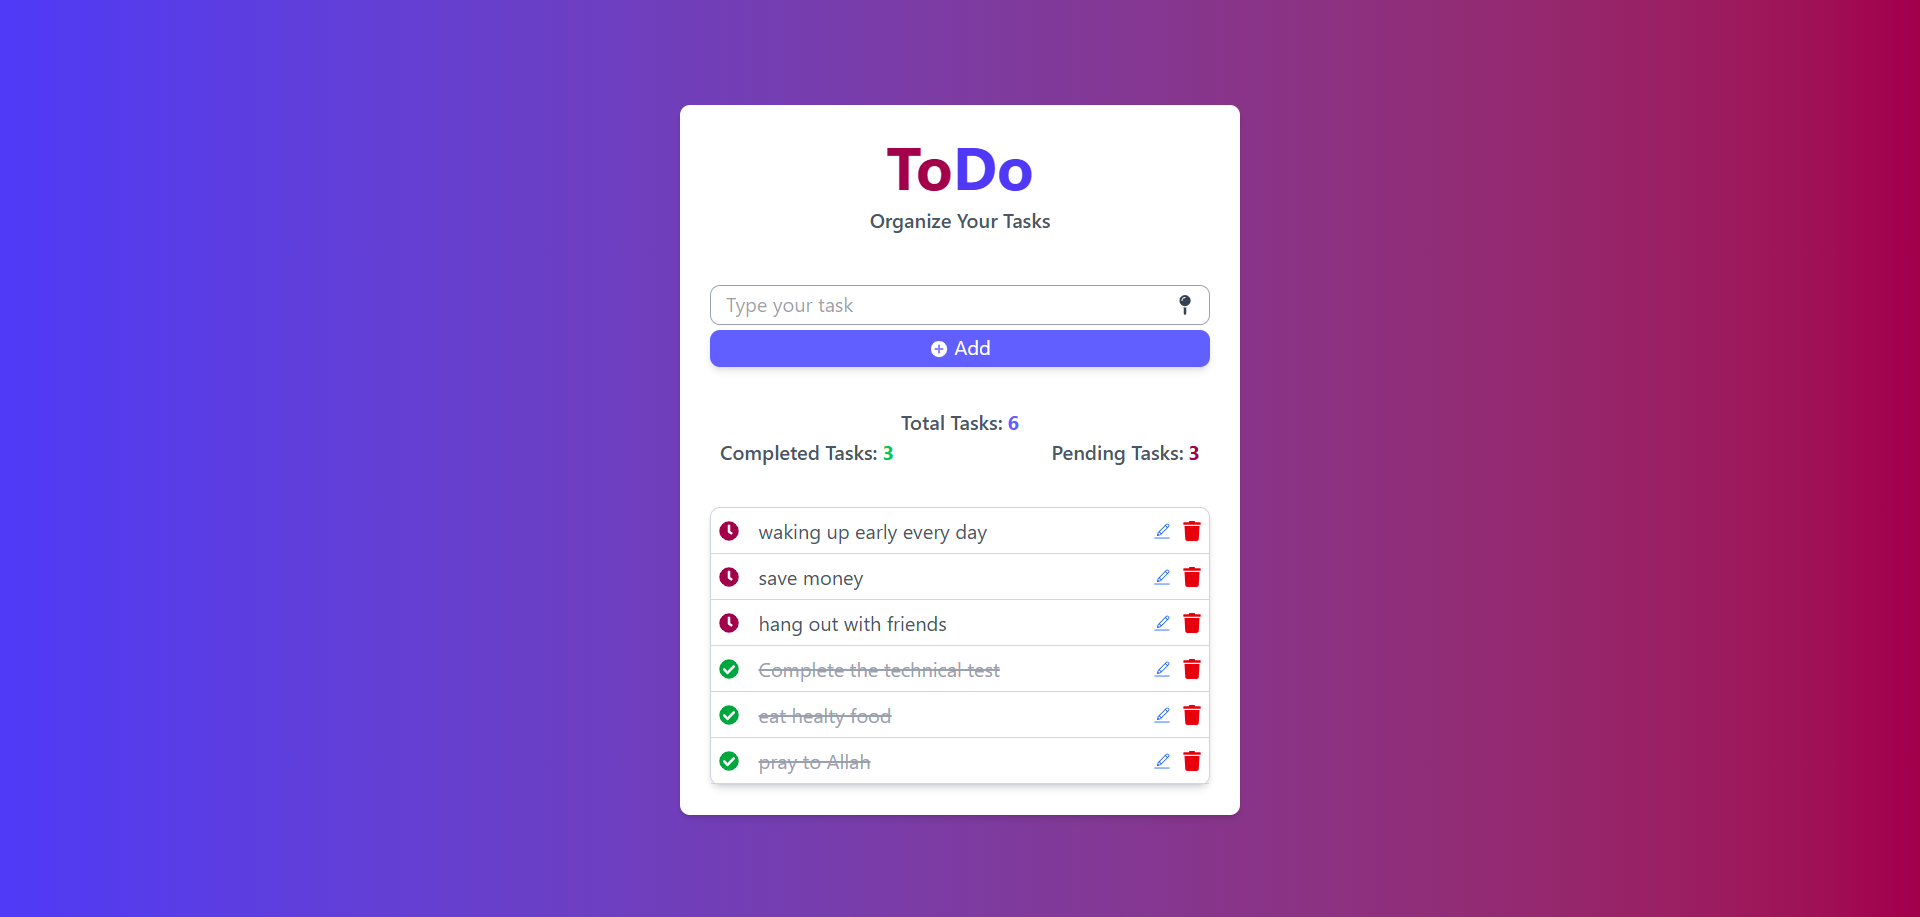
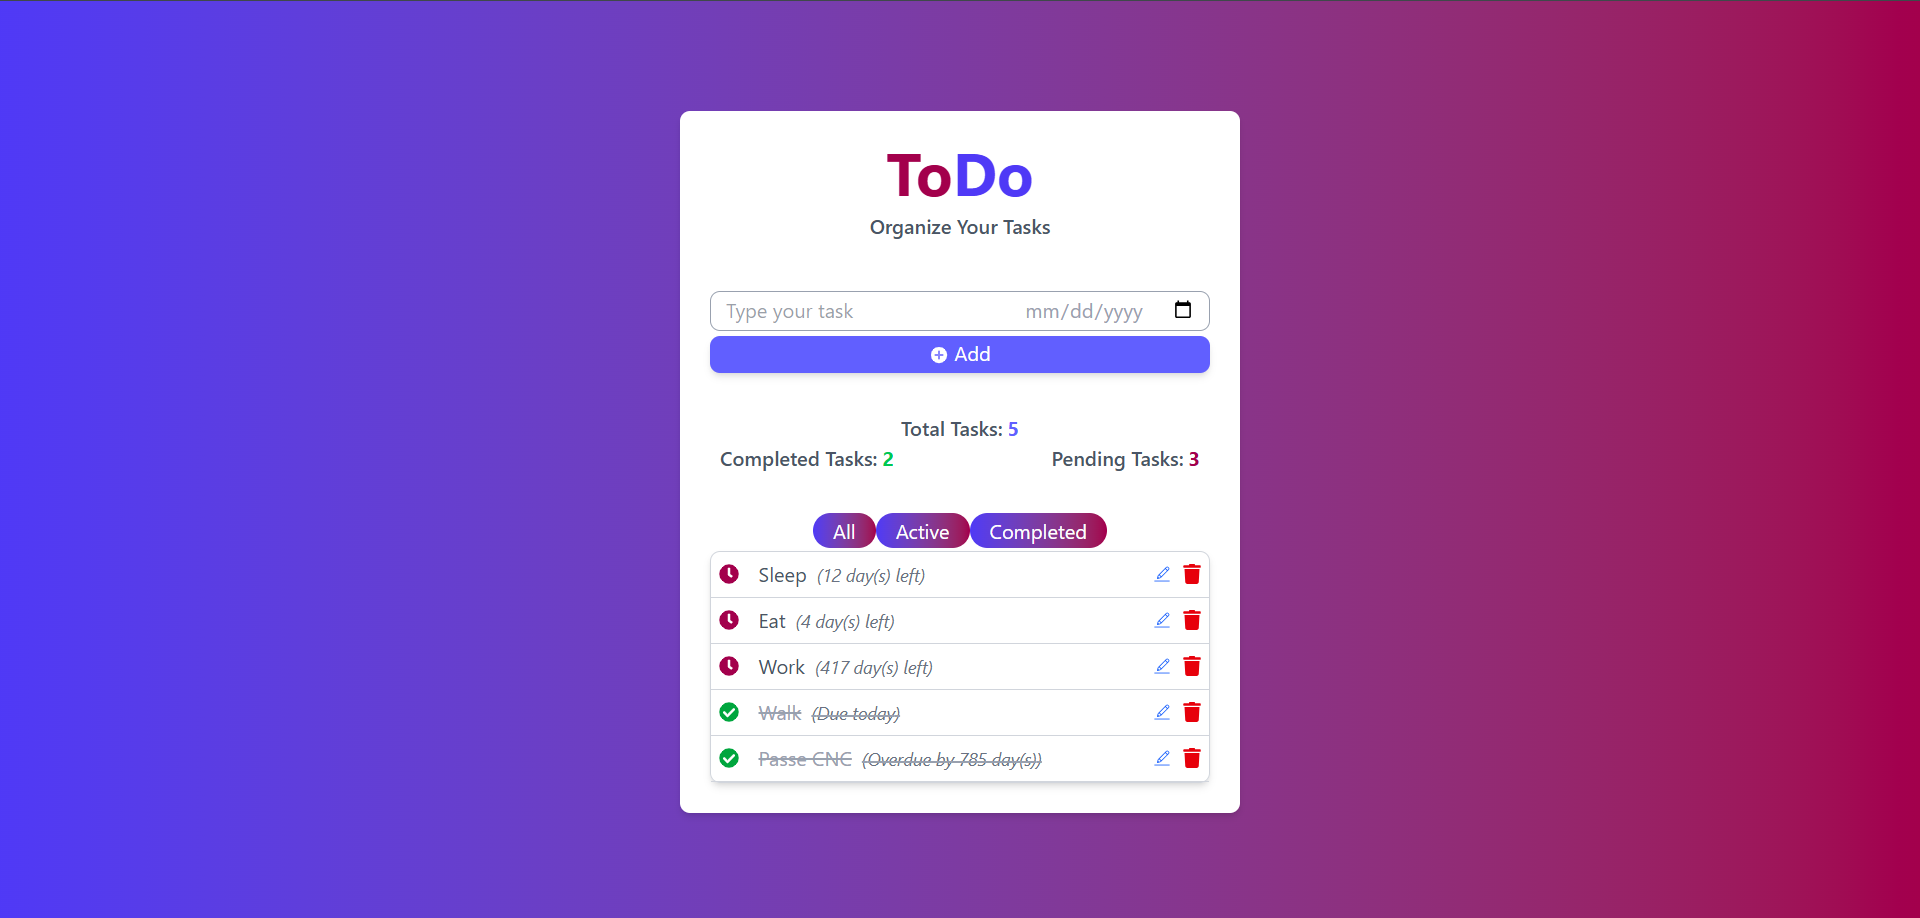
I implemented the due date of each task as well as the remaining dates and to be able to update it in the modale

diff --git a/src/components/Todo.jsx b/src/components/Todo.jsx
@@ -13,6 +13,8 @@ const Todo = () => {
     const [isModalOpen, setIsModalOpen] = useState(false);
     const [editingTaskId, setEditingTaskId] = useState(null);
     const [editedText, setEditedText] = useState('');
+    const [dueDate, setDueDate] = useState('');
+    const [editedDueDate, setEditedDueDate] = useState('');
 
 
     const addTask = (e) => {
@@ -25,13 +27,14 @@ const Todo = () => {
             const newTask = {
                 id: Date.now(),
                 text: inputText,
-                completed: false
+                completed: false,
+                dueDate: dueDate || null
             };
             setTasks([...tasks, newTask]);
             inputRef.current.value = '';
             inputRef.current.focus();
             setErrorMessage('');
-            
+            setDueDate('');
         } else {
             setErrorMessage("Please enter a task.");
             inputRef.current.focus();
@@ -53,16 +56,31 @@ const Todo = () => {
         setTasks(updatedTasks);
     }
 
+    const getRemainingDays = (dueDate) => {
+        if (!dueDate) return null;
+
+        const today = new Date();
+        const due = new Date(dueDate);
+        const diffTime = due - today;
+        const diffDays = Math.ceil(diffTime / (1000 * 60 * 60 * 24));
+
+        if (diffDays > 0) return `${diffDays} day(s) left`;
+        if (diffDays === 0) return 'Due today';
+        return `Overdue by ${Math.abs(diffDays)} day(s)`;
+    }
+
     const openEditModal = (id, currentText) => {
         setEditingTaskId(id);
         setEditedText(currentText);
+        const task = tasks.find(t => t.id === id);
+        setEditedDueDate(task?.dueDate || '');
         setIsModalOpen(true);
     };
 
     const saveEditedTask = () => {
         if (editedText.trim()) {
             const updatedTasks = tasks.map((task) =>
-                task.id === editingTaskId ? { ...task, text: editedText.trim() } : task
+                task.id === editingTaskId ? { ...task, text: editedText.trim(), dueDate: editedDueDate || null } : task
             );
             setTasks(updatedTasks);
         }
@@ -73,6 +91,7 @@ const Todo = () => {
         setIsModalOpen(false);
         setEditingTaskId(null);
         setEditedText('');
+        setEditedDueDate('');
     };
 
 
@@ -102,7 +121,7 @@ const Todo = () => {
 
         <form onSubmit={addTask} className='grid gap-1 items-center mb-8'>
             <div className='relative flex text-gray-700 items-center'>
-                <FaMapPin className='absolute right-3 top-1/2 transform -translate-y-1/2' />
+                <input type="date" value={dueDate} onChange={(e) => setDueDate(e.target.value)} className='absolute text-gray-400 right-3 top-1/2 transform -translate-y-1/2 pb-0.5' />
                 <input ref={inputRef} type="text" onChange={() => setErrorMessage('')} className='border border-gray-400 p-1 rounded-lg w-full pl-3 pt-0.5' placeholder='Type your task' />
             </div>
 
@@ -136,22 +155,13 @@ const Todo = () => {
             </button>
         </div>
 
-        <div className='border border-gray-300 rounded-lg shadow-md'>
-            {filteredTasks.map((item, index) => {
-                return (
-                    <TodoItems key={index} text={item.text} id={item.id} completed={item.completed} deleteTask={deleteTask} completeTask={completeTask} openEditModal={openEditModal} />
-                )
-            })}
-        </div>
-
-        
-
         {isModalOpen && (
             <div className="fixed inset-0 bg-gradient-to-r from-indigo-600 to-pink-800 flex items-center justify-center z-50">
                 <div className="bg-white p-6 rounded shadow-lg w-full max-w-md">
                     
                     <h2 className="text-xl font-semibold mb-4 text-indigo-600">Edit Task !</h2>
-                    <input type="text" className="w-full border p-1.5 rounded mb-4" value={editedText} onChange={(e) => setEditedText(e.target.value)} autoFocus />
+                    <input type="text" className="w-full border p-1.5 rounded mb-2" value={editedText} onChange={(e) => setEditedText(e.target.value)} autoFocus />
+                    <input type="date" className="w-full border p-1.5 rounded mb-4" value={editedDueDate} onChange={(e) => setEditedDueDate(e.target.value)} />
                     
                     <div className="flex justify-end gap-2">
                         <button onClick={closeModal} className="bg-pink-800 text-white px-4 py-1 rounded hover:bg-pink-700">
@@ -166,6 +176,14 @@ const Todo = () => {
             </div>
         )}
 
+
+        <div className='border border-gray-300 rounded-lg shadow-md'>
+            {filteredTasks.map((item, index) => {
+                return (
+                    <TodoItems key={index} text={item.text} id={item.id} completed={item.completed} deleteTask={deleteTask} completeTask={completeTask} openEditModal={openEditModal} dueDate={item.dueDate} getRemainingDays={getRemainingDays} />
+                )
+            })}
+        </div>
     
     </div>
   )

diff --git a/src/components/TodoItems.jsx b/src/components/TodoItems.jsx
@@ -2,12 +2,12 @@ import React from 'react'
 import { FaTrash, FaClock, FaCheckCircle } from "react-icons/fa";
 import { CiEdit } from "react-icons/ci";
 
-const TodoItems = ({text, id, completed, deleteTask, completeTask, openEditModal}) => {
+const TodoItems = ({text, id, completed, deleteTask, completeTask, openEditModal, dueDate, getRemainingDays}) => {
   return (
     <div className='border-b border-gray-300 p-1.5 flex items-center'>
         <div onClick={() => completeTask(id)} className='flex flex-1 items-center cursor-pointer'>
             {completed ? <FaCheckCircle className='text-green-600 mr-2 transition-transform duration-300 hover:scale-110 focus:scale-110' /> : <FaClock className='text-pink-800 mr-2 transition-transform duration-300 hover:scale-110 focus:scale-110' />}
-            <span className={`${completed ? 'text-gray-400' : 'text-gray-600'} pl-2`} style={{ textDecoration: completed ? 'line-through' : 'none' }}>{text}</span>
+            <span className={`${completed ? 'text-gray-400' : 'text-gray-600'} pl-2`} style={{ textDecoration: completed ? 'line-through' : 'none' }}>{text}{dueDate && <span className="ml-2 text-sm italic text-gray-500">({getRemainingDays(dueDate)})</span>}</span>
         </div>
         <CiEdit onClick={() => openEditModal(id, text)} className='text-blue-600 cursor-pointer transition-transform duration-300 hover:scale-110 focus:scale-110 mr-2' />
         <FaTrash onClick={() => deleteTask(id)} className='text-red-600 cursor-pointer transition-transform duration-300 hover:scale-110 focus:scale-110' />
